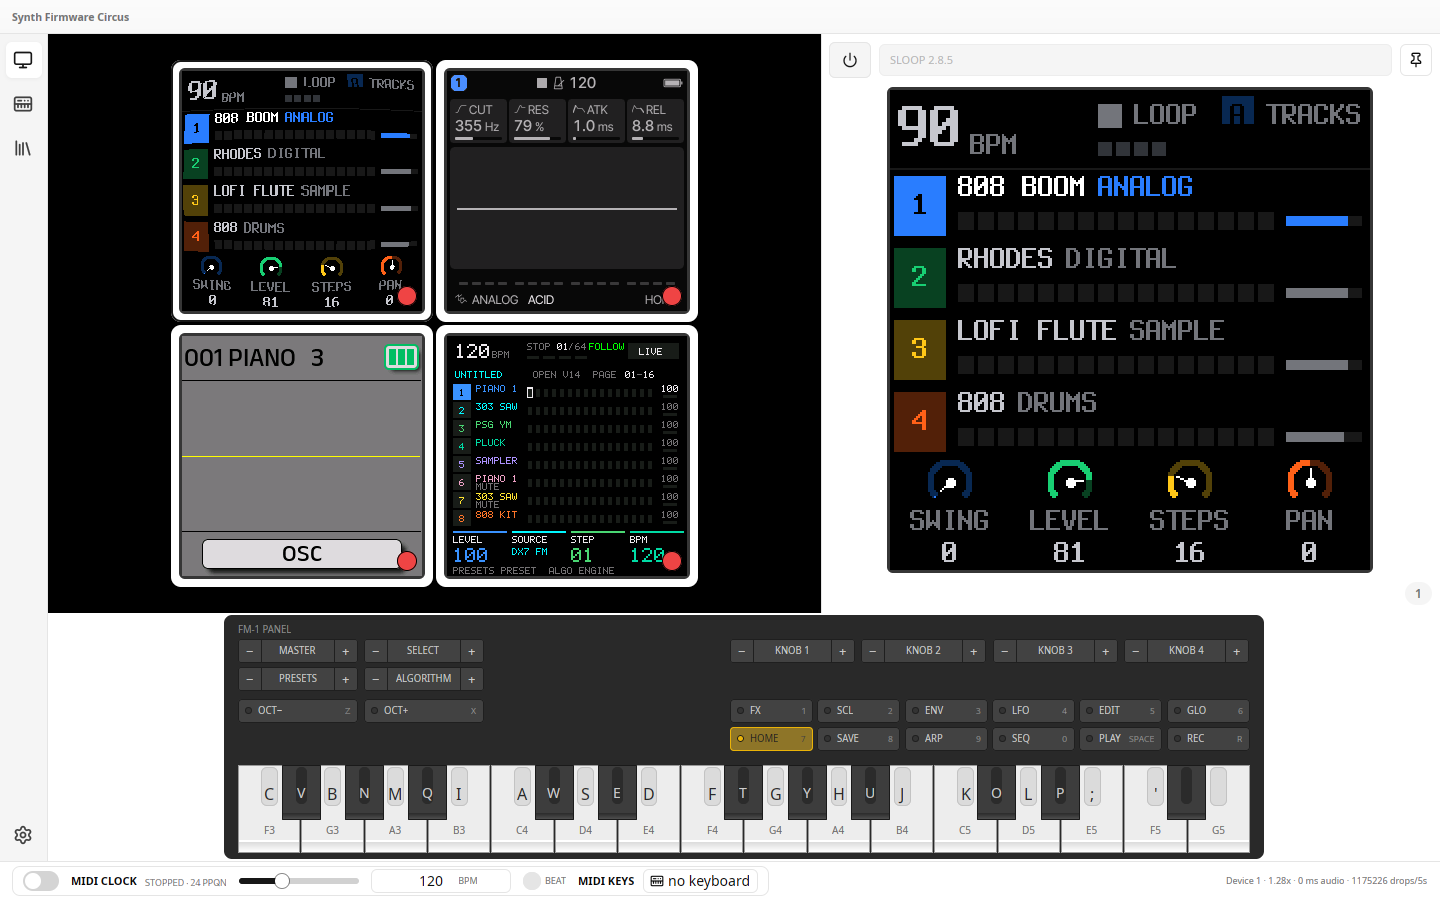
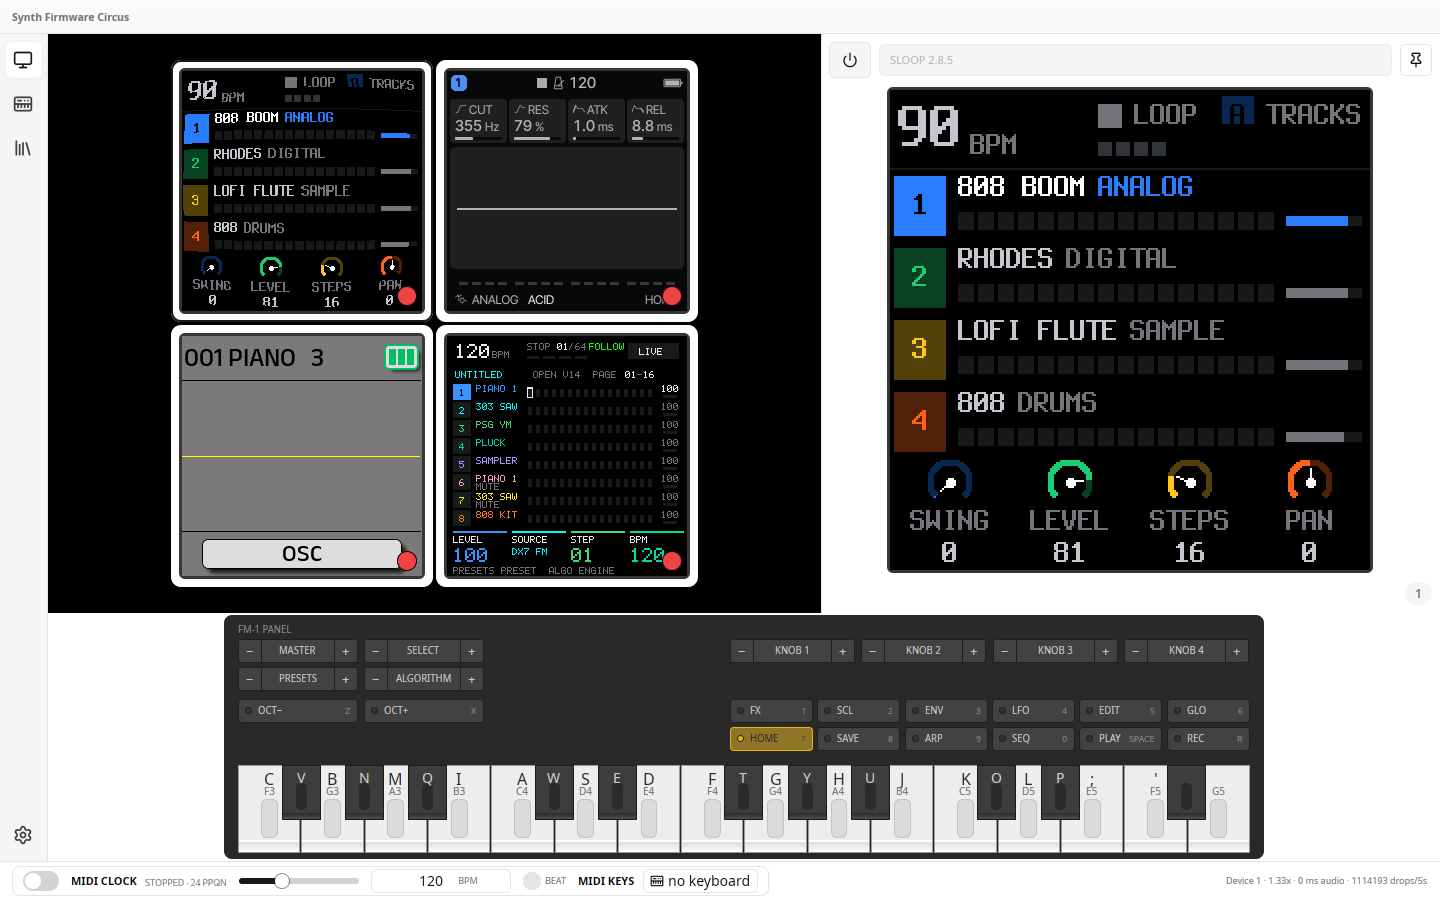
Move the LED windows above the key lip
Center them horizontally, move the key and note labels to the top, and keep a four-pixel gap above the lip in both pressed states.

diff --git a/fm1-grid-app/src/panel.rs b/fm1-grid-app/src/panel.rs
@@ -10,7 +10,7 @@ use fm1_performer::keys::{
     BLACK_KEYS, FUNCTION_ROW_1, FUNCTION_ROW_2, PANEL_KEYS, WHITE_KEYS, panel_key_hint,
 };
 use crate::theme::mix_hsla;
-use gpui_kit::base::{ElementExt, v_flex};
+use gpui_kit::base::ElementExt;
 use gpui_kit::component::ActiveTheme;
 use gpui_kit::*;
 
@@ -24,19 +24,19 @@ const WHITE_KEY_DEPTH: f32 = 10.0;
 const KEY_LED_INSET: f32 = 0.36;
 const BLACK_KEY_WIDTH_FRAC: f32 = 0.62;
 const BLACK_KEY_HEIGHT_FRAC: f32 = 0.62;
-const KEY_LED_TOP: f32 = 1.0;
 const KEY_LED_HEIGHT: f32 = 45.0;
 const WHITE_LED_TRIM: f32 = 6.0;
 const BLACK_LED_TRIM: f32 = 8.0;
 /// The LED window never takes more than this share of a short key.
-const KEY_LED_MAX_FRAC: f32 = 0.55;
+const KEY_LED_MAX_FRAC: f32 = 0.5;
+/// The LED window sits this far above the key's lip.
+const KEY_LED_LIP_GAP: f32 = 4.0;
+const KEY_LABEL_TOP: f32 = 0.0;
+const KEY_LABEL_GAP: f32 = 1.0;
 const WHITE_HINT_SIZE: f32 = 16.0;
 const BLACK_HINT_SIZE: f32 = 14.0;
 const KEY_NOTE_SIZE: f32 = 10.0;
-const KEY_NOTE_PAD: f32 = 2.0;
 const KEY_LED_RADIUS: f32 = 6.0;
-/// The free-space shift for a key with a black key on one side.
-const BLACK_KEY_SHIFT_FRAC: f32 = BLACK_KEY_WIDTH_FRAC / 4.0;
 /// Key corner rounding.
 const KEY_RADIUS: f32 = 1.0;
 /// Firmware LED level that counts as lit.
@@ -45,8 +45,6 @@ const LED_LIT_THRESHOLD: f32 = 0.04;
 const STRIP_SHADE_DELTA: f32 = 0.07;
 /// How much the LED border mixes toward the key face.
 const LED_BORDER_MIX: f32 = 0.5;
-/// The unpressed window sits a little higher; pressing sinks it.
-const KEY_LED_DEPTH: f32 = 3.0;
 const KEY_LED_FILL_ALPHA: f32 = 0.16;
 /// The lit lip just above a white key's shade strip.
 const WHITE_KEY_LIP: f32 = 2.0;
@@ -203,10 +201,10 @@ fn led_window(
     border: Hsla,
     pressed: bool,
     dark: bool,
+    top: f32,
     height: f32,
     insets: (f32, f32),
 ) -> AnyElement {
-    let top = if pressed { KEY_LED_TOP + KEY_LED_DEPTH } else { KEY_LED_TOP };
     let border = mix_hsla(border, fill, LED_BORDER_MIX);
     let window = div()
         .absolute()
@@ -230,10 +228,10 @@ fn led_window(
         .into_any_element()
 }
 
-/// Center a text label between the bottom of the LED window and the next lower
-/// element (a note label or the key's bottom edge).
-fn hint_top(led_height: f32, lower_bound: f32, text_size: f32) -> f32 {
-    (KEY_LED_TOP + KEY_LED_DEPTH + led_height + lower_bound) / 2.0 - text_size / 2.0
+/// The LED window's bottom edge: the strip height, the lip above it, and the
+/// gap to the LED.
+fn led_bottom(strip_height: f32, lip: f32) -> f32 {
+    strip_height + lip + KEY_LED_LIP_GAP
 }
 
 /// The strip's drawn height in each state.
@@ -635,23 +633,6 @@ impl GridApp {
             )
     }
 
-    /// The LED window's left and right insets for a white key. A black key covers
-    /// one edge of the upper key face; shift the window into the free part so it
-    /// is not crowded against that black key.
-    fn white_led_insets(id: u8) -> (f32, f32) {
-        let Some(index) = WHITE_KEYS.iter().position(|&key| key == id) else {
-            return (KEY_LED_INSET, KEY_LED_INSET);
-        };
-        let left = BLACK_KEYS.iter().any(|&(_, after)| after + 1 == index);
-        let right = BLACK_KEYS.iter().any(|&(_, after)| after == index);
-        let shift = BLACK_KEY_SHIFT_FRAC;
-        match (left, right) {
-            (true, false) => (KEY_LED_INSET + shift, KEY_LED_INSET - shift),
-            (false, true) => (KEY_LED_INSET - shift, KEY_LED_INSET + shift),
-            _ => (KEY_LED_INSET, KEY_LED_INSET),
-        }
-    }
-
     /// A white piano key: the theme's light step at rest, the theme's accent while
     /// held; hint below the LED window, note name at the bottom.
     fn white_key(
@@ -675,11 +656,9 @@ impl GridApp {
             (colors.white, colors.white_ink, colors.white_note)
         };
         let depth = strip_height(WHITE_KEY_DEPTH, pressed);
-        let insets = Self::white_led_insets(id);
         let led_height = (KEY_LED_HEIGHT - WHITE_LED_TRIM).min(height * KEY_LED_MAX_FRAC);
-        let note_top =
-            height - (WHITE_KEY_DEPTH + WHITE_KEY_LIP) - KEY_NOTE_PAD - KEY_NOTE_SIZE;
-        let hint_top = hint_top(led_height, note_top, WHITE_HINT_SIZE);
+        let led_top = height - led_bottom(depth, WHITE_KEY_LIP) - led_height;
+        let note_top = KEY_LABEL_TOP + WHITE_HINT_SIZE + KEY_LABEL_GAP;
         let lip = strip_colors(key_fill, colors.dark).1;
         div()
             .id(("panel-key", id as usize))
@@ -706,15 +685,16 @@ impl GridApp {
                 colors.white_edge,
                 pressed,
                 colors.dark,
+                led_top,
                 led_height,
-                insets,
+                (KEY_LED_INSET, KEY_LED_INSET),
             ))
             .child(
                 div()
                     .absolute()
                     .left_0()
                     .right_0()
-                    .top(px(hint_top))
+                    .top(px(KEY_LABEL_TOP))
                     .flex()
                     .justify_center()
                     .child(
@@ -725,14 +705,15 @@ impl GridApp {
                     ),
             )
             .child(
-                v_flex()
-                    .size_full()
-                    .pb(px(WHITE_KEY_DEPTH + WHITE_KEY_LIP))
-                    .items_center()
-                    .child(div().flex_1())
+                div()
+                    .absolute()
+                    .left_0()
+                    .right_0()
+                    .top(px(note_top))
+                    .flex()
+                    .justify_center()
                     .child(
                         div()
-                            .pb(px(KEY_NOTE_PAD))
                             .text_size(px(KEY_NOTE_SIZE))
                             .text_color(note_ink)
                             .child(note),
@@ -772,8 +753,7 @@ impl GridApp {
             (colors.black, colors.black_ink)
         };
         let led_height = (KEY_LED_HEIGHT - BLACK_LED_TRIM).min(height * KEY_LED_MAX_FRAC);
-        let key_bottom = height - BLACK_KEY_DEPTH;
-        let hint_top = hint_top(led_height, key_bottom, BLACK_HINT_SIZE);
+        let led_top = height - led_bottom(strip_height(BLACK_KEY_DEPTH, pressed), 0.0) - led_height;
         div()
             .absolute()
             .left(px(x))
@@ -815,6 +795,7 @@ impl GridApp {
                         colors.black_edge,
                         pressed,
                         colors.dark,
+                        led_top,
                         led_height,
                         (KEY_LED_INSET, KEY_LED_INSET),
                     ))
@@ -823,7 +804,7 @@ impl GridApp {
                             .absolute()
                             .left_0()
                             .right_0()
-                            .top(px(hint_top))
+                            .top(px(KEY_LABEL_TOP))
                             .flex()
                             .justify_center()
                             .child(
@@ -842,31 +823,15 @@ impl GridApp {
 mod tests {
     // No `use super::*` — the parent's gpui glob import would drag in GPUI's `test`
     // attribute macro, which re-expands the built-in #[test] (see library_tab.rs).
-    use super::{GridApp, KEY_LED_INSET, hint_top, panel_colors, strip_colors, strip_height};
+    use super::{WHITE_KEY_LIP, led_bottom, panel_colors, strip_colors, strip_height};
     use gpui_kit::component::Theme;
 
     #[test]
-    fn white_led_window_avoids_a_single_black_key() {
-        let center = (KEY_LED_INSET, KEY_LED_INSET);
-        // C has a black key on its right only.
-        let (left, right) = GridApp::white_led_insets(14);
-        assert!(left < center.0 && right > center.1, "C shifts left");
-        // I has a black key on its left only.
-        let (left, right) = GridApp::white_led_insets(20);
-        assert!(left > center.0 && right < center.1, "I shifts right");
-        // B has black keys on both sides.
-        assert_eq!(GridApp::white_led_insets(16), center);
-    }
-
-    #[test]
-    fn hint_sits_between_led_and_key_lower_edge() {
-        // Normal white key: LED bottom at 4+39, note top at 96.
-        assert_eq!(hint_top(39.0, 96.0, 16.0), 61.5);
-        // Compact white key.
-        assert_eq!(hint_top(39.0, 64.0, 16.0), 45.5);
-        // Normal and compact black keys.
-        assert_eq!(hint_top(37.0, 68.0, 14.0), 47.5);
-        assert_eq!(hint_top(30.0, 48.0, 14.0), 34.0);
+    fn led_sits_four_pixels_above_the_lip() {
+        assert_eq!(led_bottom(10.0, WHITE_KEY_LIP), 16.0);
+        assert_eq!(led_bottom(5.0, WHITE_KEY_LIP), 11.0);
+        assert_eq!(led_bottom(6.0, 0.0), 10.0);
+        assert_eq!(led_bottom(3.0, 0.0), 7.0);
     }
 
     #[test]
